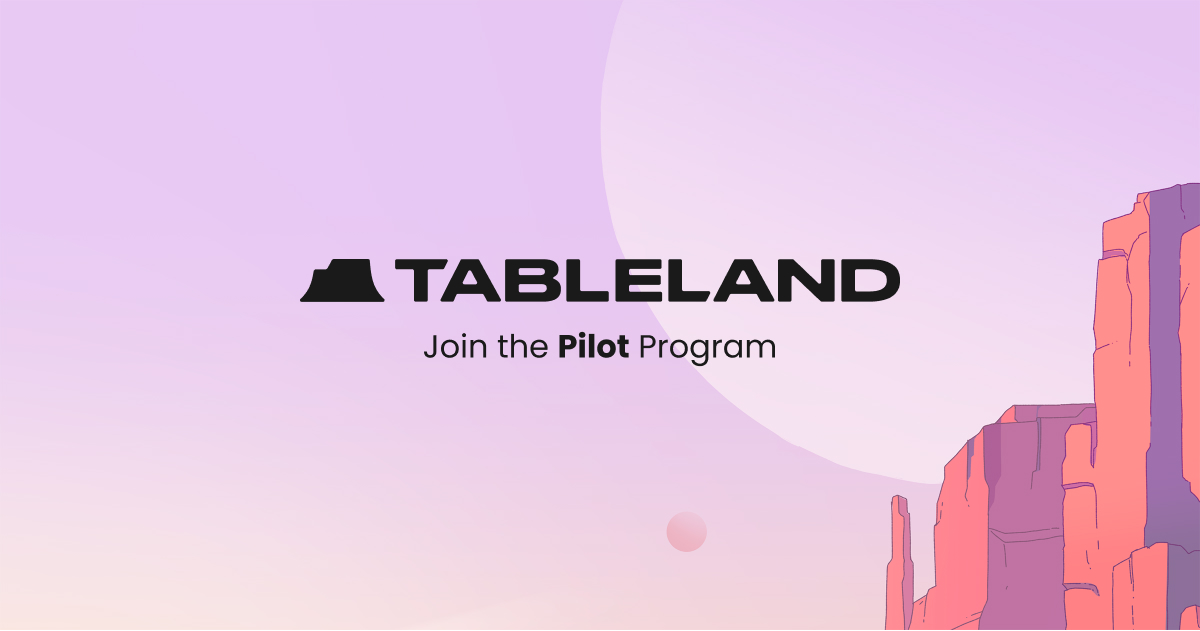
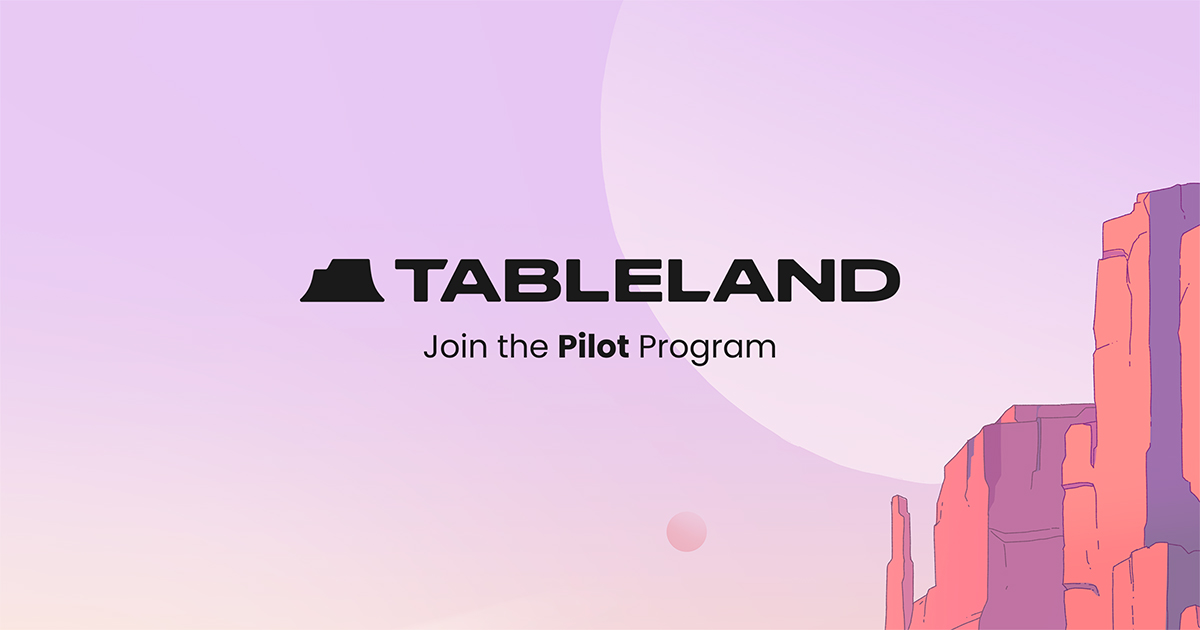
fix og images

diff --git a/app/pilot-program/page.tsx b/app/pilot-program/page.tsx
@@ -15,13 +15,13 @@ export const metadata: Metadata = {
   openGraph: {
     title,
     description,
-    url: "https://tableland.xyz",
+    url: "https://tableland.xyz/pilot-program",
     siteName: title,
     images: [
       {
         url: "https://tableland.xyz/img/og/pilot.jpg",
         width: 1200,
-        height: 631,
+        height: 630,
       },
     ],
     locale: "en-US",

diff --git a/app/rigs/samples/page.tsx b/app/rigs/samples/page.tsx
@@ -14,13 +14,13 @@ export const metadata: Metadata = {
   openGraph: {
     title,
     description,
-    url: "https://tableland.xyz",
+    url: "https://tableland.xyz/rigs/samples",
     siteName: title,
     images: [
       {
         url: "https://tableland.xyz/img/og/rigs.jpg",
         width: 1200,
-        height: 631,
+        height: 630,
       },
     ],
     locale: "en-US",

diff --git a/app/rigs/page.tsx b/app/rigs/page.tsx
@@ -31,13 +31,13 @@ export const metadata: Metadata = {
   openGraph: {
     title,
     description,
-    url: "https://tableland.xyz",
+    url: "https://tableland.xyz/rigs",
     siteName: title,
     images: [
       {
         url: "https://tableland.xyz/img/og/rigs.jpg",
         width: 1200,
-        height: 631,
+        height: 630,
       },
     ],
     locale: "en-US",

diff --git a/app/layout.tsx b/app/layout.tsx
@@ -25,7 +25,7 @@ export const metadata: Metadata = {
       {
         url: "https://tableland.xyz/img/og/home.jpg",
         width: 1200,
-        height: 631,
+        height: 630,
       },
     ],
     locale: "en-US",
